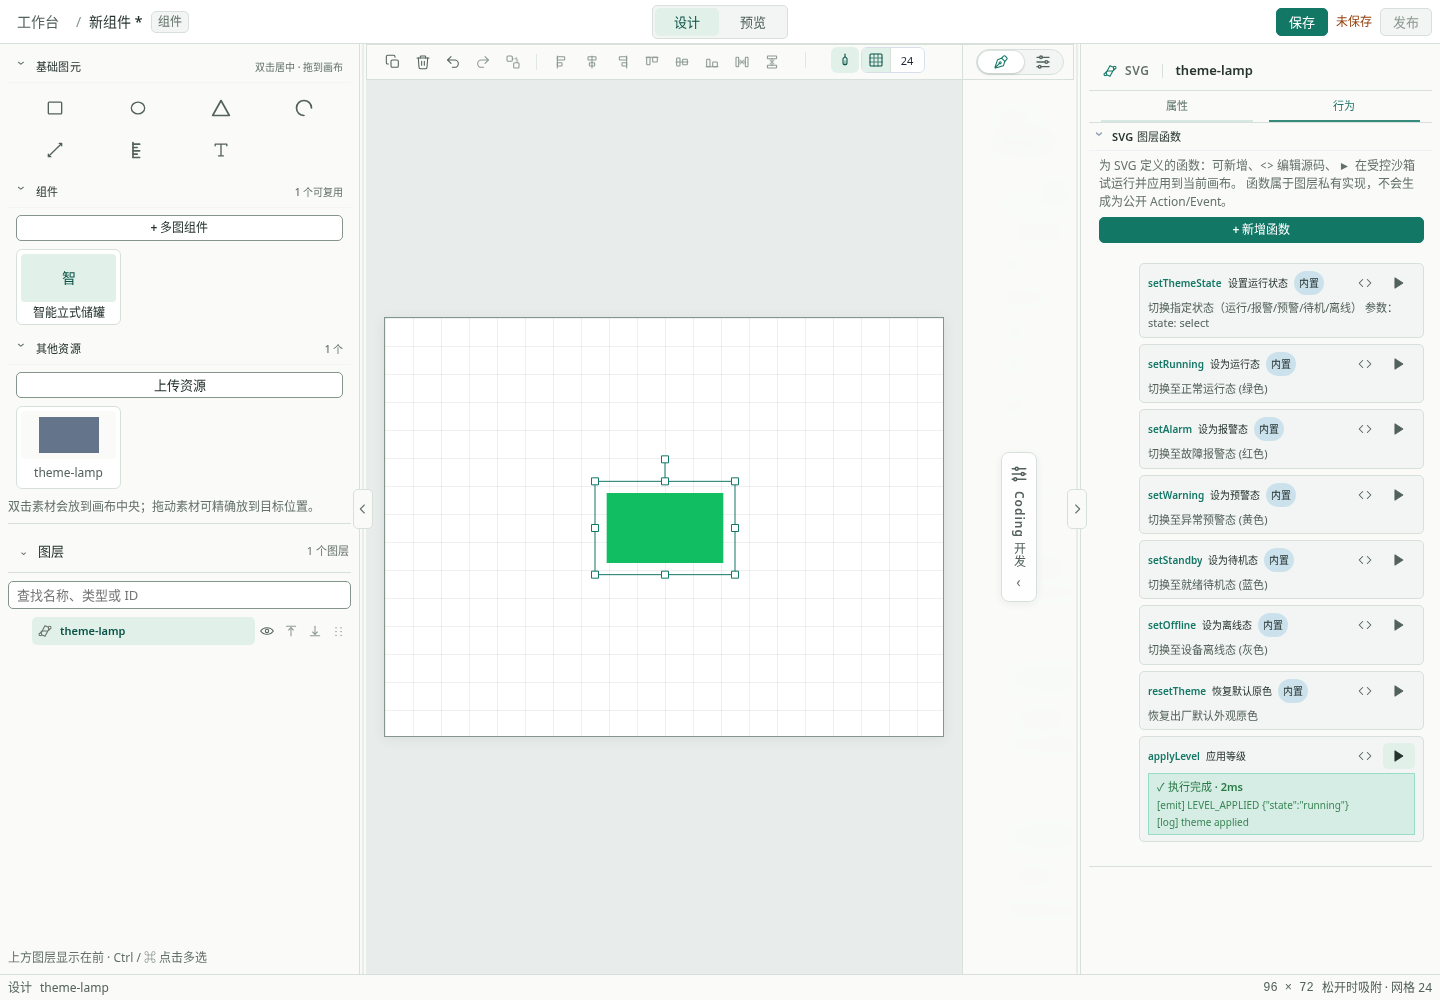
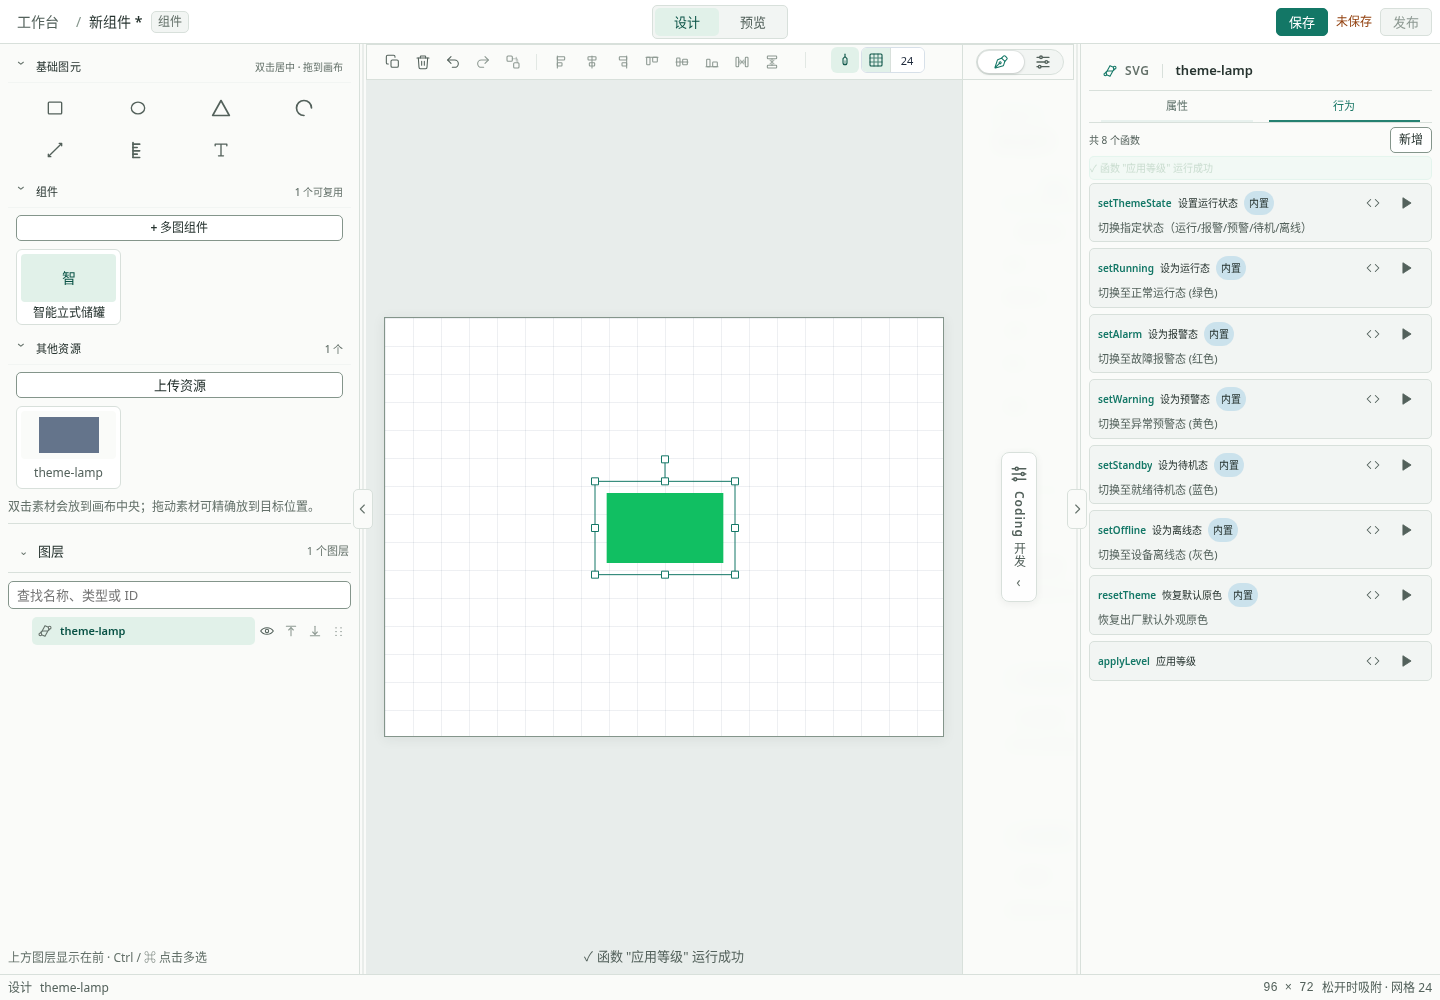
fix(component): support functions across layers, fix select z-index and header style (fixes #209)

diff --git a/src/features/component-library/ComponentLayerMethodInspector.tsx b/src/features/component-library/ComponentLayerMethodInspector.tsx
@@ -96,12 +96,12 @@ export function ComponentLayerMethodInspector({
 
   const svgLayer = layer && layer.kind === 'svg' ? (layer as SvgVisualLayer) : null
 
-  const customMethods = svgLayer?.methods ?? []
+  const customMethods = layer?.methods ?? []
 
   useEffect(() => {
     latestDocumentRef.current = svgLayer?.document ?? null
-    setLivePreviewAssetRef(svgLayer?.assetRef ?? null)
-  }, [svgLayer?.document, svgLayer?.assetRef])
+    setLivePreviewAssetRef(layer && 'assetRef' in layer ? layer.assetRef : null)
+  }, [svgLayer?.document, layer])
 
   const hasThemeClasses = useMemo(() => {
     return svgLayer?.document ? hasManagedSvgThemeClasses(svgLayer.document) : false
@@ -142,20 +142,20 @@ export function ComponentLayerMethodInspector({
     return rows
   }, [customMethods, hasThemeClasses, svgLayer])
 
-  if (!layer || layer.kind !== 'svg' || !svgLayer) {
+  if (!layer) {
     return (
       <div
         className="component-layer-methods-inspector"
         data-portable-action-execution="disabled"
       >
-        <div className="component-methods-status-banner" role="status">
-          当前图层没有 SVG 函数；图层函数仅对 SVG 图层开放。
+        <div className="component-methods-empty">
+          请选择图层以管理函数。
         </div>
       </div>
     )
   }
 
-  const selfLayer: SvgVisualLayer = svgLayer
+  const selfLayer: ComponentVisualLayer = layer
 
   function saveMethods(next: SvgLayerMethodDefinition[]) {
     onUpdateLayer({ ...selfLayer, methods: next })
@@ -251,7 +251,7 @@ export function ComponentLayerMethodInspector({
       if (result.ok) {
         let currentLayer = selfLayer
         for (const op of result.ops) {
-          if (op.kind === 'setTheme' && currentLayer.document) {
+          if (op.kind === 'setTheme' && currentLayer.kind === 'svg' && currentLayer.document) {
             const nextDoc = applyThemeToManagedSvgDocument(currentLayer.document, op.state)
             const nextAssetRef = serializeManagedSvgDataUrl(nextDoc)
             currentLayer = { ...currentLayer, document: nextDoc, assetRef: nextAssetRef }
@@ -333,11 +333,11 @@ export function ComponentLayerMethodInspector({
         </span>
         <Button
           size="small"
-          variant="primary"
+          variant="secondary"
           disabled={readOnly || customMethods.length >= 16}
           onClick={openCreate}
         >
-          + 新增函数
+          新增
         </Button>
       </div>
 
@@ -351,10 +351,18 @@ export function ComponentLayerMethodInspector({
         </div>
       )}
 
-      {!hasThemeClasses && customMethods.length === 0 ? (
+      {methodRows.length === 0 ? (
         <div className="component-methods-empty">
-          暂无函数。导入的 SVG 标注 <code>scada-theme-*</code> 语义类名后，会自动提供主题函数；
-          也可以点击右上角新增自定义函数。
+          {selfLayer.kind === 'svg' ? (
+            <>
+              暂无函数。导入的 SVG 标注 <code>scada-theme-*</code> 语义类名后，会自动提供主题函数；
+              也可以点击右上角“新增”定义函数。
+            </>
+          ) : (
+            <>
+              暂无函数。可点击右上角“新增”定义图层函数。
+            </>
+          )}
         </div>
       ) : (
         <ul className="component-methods-list">
@@ -502,7 +510,7 @@ export function ComponentLayerMethodInspector({
       <ComponentLayerMethodCodeModal
         editState={editState}
         readOnly={readOnly}
-        svgLayer={selfLayer}
+        layer={selfLayer}
         liveCurrentTheme={liveCurrentTheme}
         livePreviewAssetRef={livePreviewAssetRef}
         onClose={() => setEditState(null)}

diff --git a/src/component-system/visual.ts b/src/component-system/visual.ts
@@ -131,6 +131,8 @@ type VisualLayerBase = {
   origin?: VisualAnchorOrigin
   visible: boolean
   opacity: number
+  /** Private authored functions, executed only through the controlled engine. */
+  methods?: readonly SvgLayerMethodDefinition[]
 }
 
 export type GroupVisualLayer = VisualLayerBase & {
@@ -267,6 +269,13 @@ export function assertSvgLayerMethods(
     }
   }
 }
+
+export type LayerMethodParameterKind = SvgLayerMethodParameterKind
+export type LayerMethodParameter = SvgLayerMethodParameter
+export type LayerMethodDefinition = SvgLayerMethodDefinition
+export const LAYER_METHOD_LIMITS = SVG_LAYER_METHOD_LIMITS
+export const isLayerMethodName = isSvgLayerMethodName
+export const assertLayerMethods = assertSvgLayerMethods
 
 export type SvgVisualLayer = VisualLayerBase & {
   kind: 'svg'
@@ -560,6 +569,13 @@ function assertLayer(value: unknown, index: number): asserts value is ComponentV
 
   if (!isFiniteNumber(value.opacity) || value.opacity < 0 || value.opacity > 1) {
     throw new Error(`Visual Layer ${String(value.id)} 的 opacity 必须位于 0..1`)
+  }
+
+  if (value.methods !== undefined) {
+    if (!Array.isArray(value.methods)) {
+      throw new Error(`Visual Layer ${String(value.id)} 的 methods 必须是数组`)
+    }
+    assertSvgLayerMethods(value.methods, `Visual Layer ${String(value.id)} methods`)
   }
 
   if (value.kind === 'svg' || value.kind === 'image') {
@@ -874,13 +890,25 @@ function cloneDesignSize(
 function cloneVisualLayer(layer: ComponentVisualLayer): ComponentVisualLayer {
   const transform = { ...layer.transform }
   const origin = layer.origin
+  const methods = layer.methods
+    ? layer.methods.map((m) => ({
+        ...m,
+        parameters: m.parameters
+          ? m.parameters.map((p) => ({
+              ...p,
+              options: p.options ? p.options.map((o) => ({ ...o })) : undefined,
+            }))
+          : undefined,
+      }))
+    : undefined
 
-  if (layer.kind === 'group') return { ...layer, transform, origin }
+  if (layer.kind === 'group') return { ...layer, transform, origin, methods }
   if (layer.kind === 'vector') {
     return {
       ...layer,
       transform,
       origin,
+      methods,
       style: layer.style
         ? {
             ...layer.style,
@@ -903,6 +931,7 @@ function cloneVisualLayer(layer: ComponentVisualLayer): ComponentVisualLayer {
       ...layer,
       transform,
       origin,
+      methods,
       style: layer.style
         ? {
             ...layer.style,
@@ -916,6 +945,7 @@ function cloneVisualLayer(layer: ComponentVisualLayer): ComponentVisualLayer {
       ...layer,
       transform,
       origin,
+      methods,
       document: layer.document ? cloneManagedSvgDocument(layer.document) : undefined,
       style: layer.style ? { ...layer.style } : undefined,
     }
@@ -924,6 +954,7 @@ function cloneVisualLayer(layer: ComponentVisualLayer): ComponentVisualLayer {
     ...layer,
     transform,
     origin,
+    methods,
     style: layer.style ? { ...layer.style } : undefined,
   }
 }

diff --git a/scripts/check-layer-methods.ts b/scripts/check-layer-methods.ts
@@ -1,5 +1,8 @@
 import assert from 'node:assert/strict'
 import {
+  COMPONENT_VISUAL_VERSION,
+  assertComponentVisualDefinition,
+  assertLayerMethods,
   assertSvgLayerMethods,
   isSvgLayerMethodName,
   SVG_LAYER_METHOD_LIMITS,
@@ -237,6 +240,57 @@ assert.deepEqual(LAYER_METHOD_DEFAULT_LIMITS, {
   maxStackSizeBytes: 512 * 1024,
 })
 
+// 3. Multi-layer kind support: image, vector and other visual layers support layer methods.
+assert.doesNotThrow(() => assertLayerMethods([validMethod]))
+assert.doesNotThrow(() => {
+  assertComponentVisualDefinition({
+    version: COMPONENT_VISUAL_VERSION,
+    mode: 'composite',
+    designSize: { width: 100, height: 100 },
+    layers: [
+      {
+        id: 'img-1',
+        name: 'photo',
+        kind: 'image',
+        parentId: null,
+        transform: { x: 0, y: 0, width: 100, height: 100, rotation: 0, scaleX: 1, scaleY: 1 },
+        visible: true,
+        opacity: 1,
[1 lines of base64/hex data omitted]
+        methods: [validMethod],
+      },
+    ],
+    rules: [],
+    animations: [],
+  })
+})
+
+const imageLayers = [
+  { id: 'img-1', name: 'photo', kind: 'image', visible: true },
+  { id: 'vec-1', name: 'overlay', kind: 'vector', visible: false },
+]
+
+const imageLayerRun = await runLayerMethod({
+  method: {
+    name: 'toggleOverlay',
+    parameters: [],
+    implementation: `function toggleOverlay() {
+      if ($self.kind !== 'image') throw new Error('expected image self kind');
+      $self.layers[1].show = true;
+      $emit('OVERLAY_SHOWN', { imageId: $self.id });
+      return 'toggled';
+    }`,
+  },
+  args: {},
+  layers: imageLayers,
+})
+assert.equal(imageLayerRun.ok, true, imageLayerRun.message)
+assert.equal(imageLayerRun.message, 'toggled')
+assert.deepEqual(imageLayerRun.ops, [
+  { kind: 'setLayerVisible', layerId: 'vec-1', visible: true },
+  { kind: 'emit', eventName: 'OVERLAY_SHOWN', payload: { imageId: 'img-1' } },
+])
+
 console.log(
-  'Layer method checks passed: authored SVG layer functions validate fail-closed (names, duplicates, size caps, parameter shapes), and the controlled QuickJS engine executes them inside a sandbox with no host globals, structured whitelisted $self/$emit operations only, argument marshalling, timeout and memory interruption, and missing-function/syntax failure surfaces.',
+  'Layer method checks passed: authored layer functions across visual layers validate fail-closed (names, duplicates, size caps, parameter shapes), and the controlled QuickJS engine executes them inside a sandbox with no host globals, structured whitelisted $self/$emit operations only, argument marshalling, timeout and memory interruption, and missing-function/syntax failure surfaces.',
 )

diff --git a/src/features/component-library/ComponentLayerMethodCodeModal.tsx b/src/features/component-library/ComponentLayerMethodCodeModal.tsx
@@ -1,7 +1,7 @@
 import { useEffect, useMemo, useRef, useState } from 'react'
 import { TrashIcon } from '../../components/toolbar-icons'
 import { SVG_LAYER_BUILTIN_METHODS } from '../../component-system/managedSvgTheme'
-import type { SvgLayerMethodParameter, SvgVisualLayer } from '../../component-system/visual'
+import type { ComponentVisualLayer, SvgLayerMethodParameter } from '../../component-system/visual'
 import type { LayerMethodRunResult } from '../../runtime/controlled-layer-method-engine'
 import {
   Button,
@@ -50,7 +50,7 @@ export type LayerMethodEditState = {
 type ComponentLayerMethodCodeModalProps = {
   editState: LayerMethodEditState | null
   readOnly: boolean
-  svgLayer: SvgVisualLayer
+  layer: ComponentVisualLayer
   liveCurrentTheme: string | null
   livePreviewAssetRef: string | null
   onClose: () => void
@@ -68,7 +68,7 @@ type ComponentLayerMethodCodeModalProps = {
 export function ComponentLayerMethodCodeModal({
   editState,
   readOnly,
-  svgLayer,
+  layer,
   liveCurrentTheme,
   livePreviewAssetRef,
   onClose,
@@ -556,15 +556,15 @@ export function ComponentLayerMethodCodeModal({
                 )}
               </div>
               <div className="component-method-preview-viewport">
-                {livePreviewAssetRef || svgLayer.assetRef ? (
+                {livePreviewAssetRef || ('assetRef' in layer && layer.assetRef) ? (
                   <img
-                    src={livePreviewAssetRef || svgLayer.assetRef}
-                    alt={svgLayer.name}
+                    src={livePreviewAssetRef || ('assetRef' in layer ? layer.assetRef : '')}
+                    alt={layer.name}
                     className="component-method-preview-image"
                   />
                 ) : (
                   <div className="component-method-preview-empty">
-                    <span>暂无图层矢量图形预览</span>
+                    <span>暂无图层图形预览</span>
                   </div>
                 )}
               </div>

diff --git a/src/runtime/controlled-layer-method-engine.ts b/src/runtime/controlled-layer-method-engine.ts
@@ -152,7 +152,7 @@ function buildPrelude(snapshot: readonly LayerMethodSnapshotLayer[]): string {
     const $self = {
       id: ${JSON.stringify(snapshot.length > 0 ? snapshot[0].id : '')},
       name: ${JSON.stringify(snapshot.length > 0 ? snapshot[0].name : '')},
-      kind: 'svg',
+      kind: ${JSON.stringify(snapshot.length > 0 ? snapshot[0].kind : '')},
       get layers() { return __layerProxies; },
       setTheme(state) { return __op('setTheme', String(state)); },
       applyTheme(state) { return __op('setTheme', String(state)); },

diff --git a/src/features/component-library/component-layer-methods.css b/src/features/component-library/component-layer-methods.css
@@ -20,8 +20,8 @@
   display: flex;
   align-items: center;
   justify-content: space-between;
-  margin-bottom: var(--ui-space-xs);
-  gap: 6px;
+  padding: 4px 0 6px;
+  gap: var(--ui-space-sm);
   width: 100%;
   min-width: 0;
   box-sizing: border-box;

diff --git a/src/ui/ui-primitives.css b/src/ui/ui-primitives.css
@@ -434,7 +434,7 @@
 
 .ui-select-positioner,
 .ui-menu-positioner {
-  z-index: 200;
+  z-index: 1000;
 }
 
 .ui-select-popup,
@@ -729,7 +729,7 @@
 }
 
 .ui-popover-positioner {
-  z-index: 200;
+  z-index: 1000;
 }
 
 .ui-popover-popup {

diff --git a/docs/progress/issue-209-svg-interaction-optimization.md b/docs/progress/issue-209-svg-interaction-optimization.md
@@ -9,6 +9,13 @@ feedback).
 Base: `main@f469abf` (rev 2). Product polish under the current `PLAN.md`
 product-polish phase, driven by an open issue. No M10A boundary change.
 
+## Rev 4 (owner feedback: header button style, parameter dropdown z-index, layer functions for all visual layers)
+
+- Renamed button from `+ 新增函数` to `新增`, switched variant from `primary` to `secondary`, and refined header bar spacing and count hint weight to match inspector card styles naturally.
+- Fixed popup z-index layering (`.ui-select-positioner`, `.ui-menu-positioner`, `.ui-popover-positioner` set to `z-index: 1000` in `src/ui/ui-primitives.css`): Select dropdowns inside dialogs (z-index 300/301) now open above modal backdrops and are fully clickable.
+- Extended layer functions on the 行为 (behaviors) tab to all visual layers (images, vectors, etc.) rather than restricting to SVG. Moved `methods` onto `VisualLayerBase`, fail-closed validation in `assertLayer`, and deep cloning in `cloneVisualLayer`. Updated `$self.kind` in the sandbox prelude to dynamically reflect layer kind. Empty state shows appropriate guidance per layer kind, and modal preview works with image layers.
+- Updated smoke tests and checks (`scripts/check-layer-methods.ts`, `scripts/pages-component-inspector-scope-smoke.mjs`, `scripts/pages-layer-methods-smoke.mjs`, `scripts/pages-managed-svg-author-ref-smoke.mjs`).
+
 ## Rev 3 (behaviors tab per PR198, author direction)
 
 - The behaviors tab now contains the SVG layer functions panel ONLY, matching
